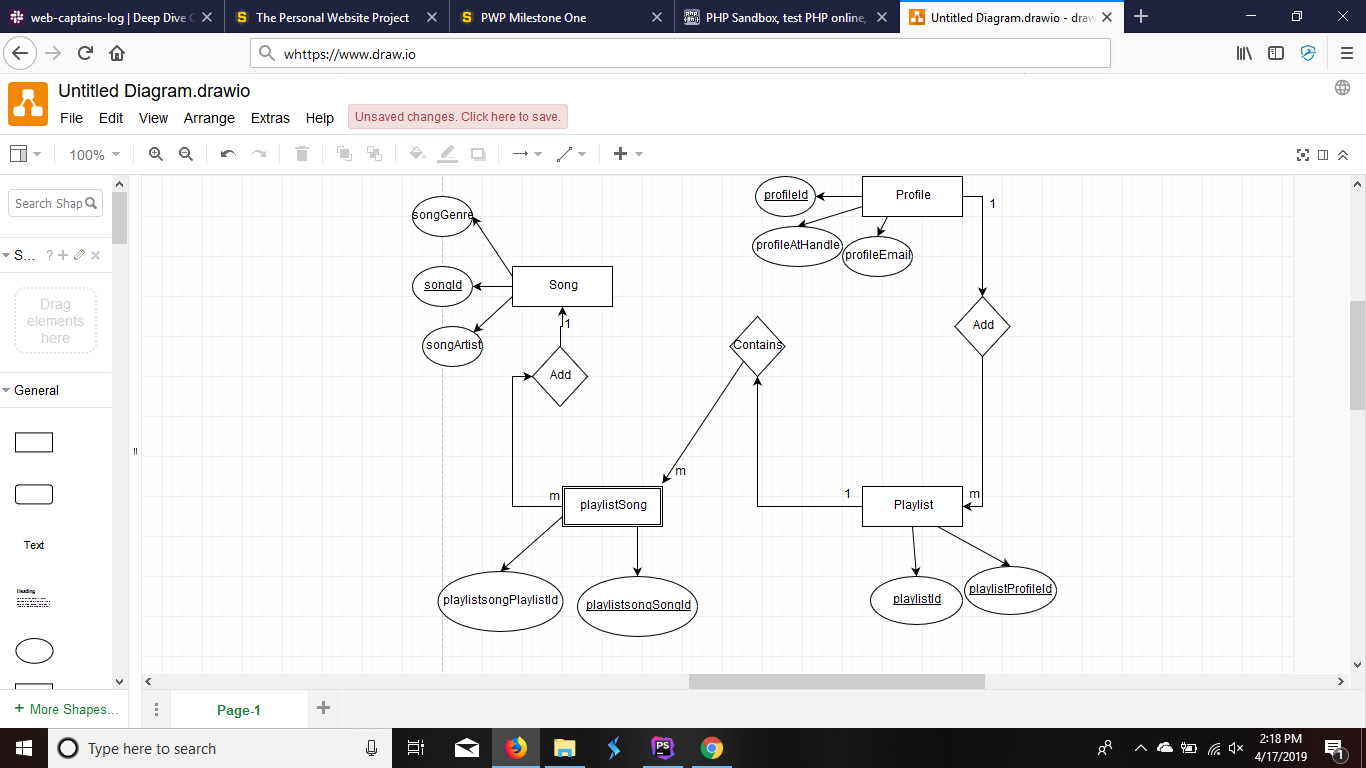
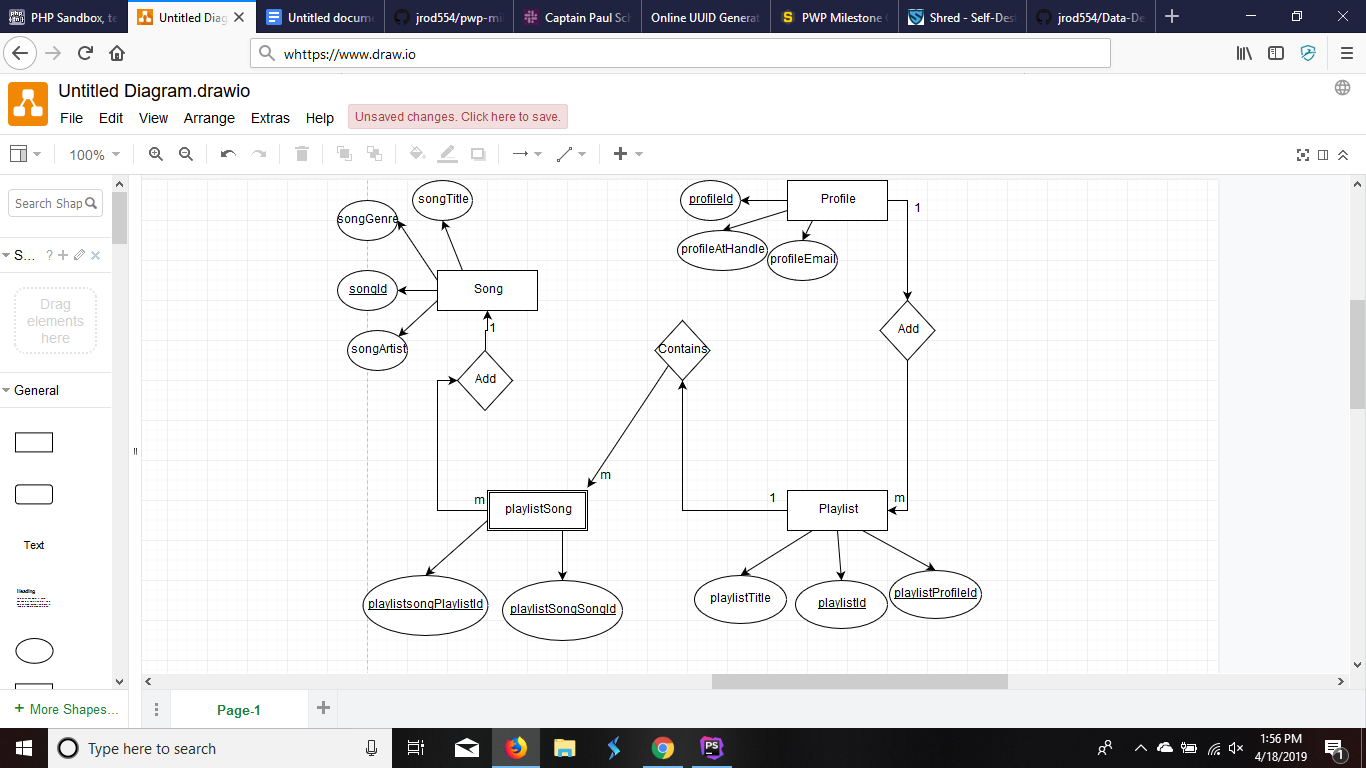
fixed up my erd, conceptual model, and ddl.

diff --git a/epic/index.php b/epic/index.php
@@ -1,5 +1,5 @@
 <!DOCTYPE html>
-<a lang ="en">
+<html lang="en">
 <head>
 	<meta charset="UTF-8">
 	<title>Data Design Project</title>
@@ -9,11 +9,11 @@
 </body>
 	<a href="persona.php">Persona</a>
 	<br>
-	<a href="User%20Story.php">User Story</a>
+	<a href="user-story.php">User Story</a>
 	<br>
 	<a href="interaction-flow.php">Interaction Flow</a>
 	<br>
-	<a href="erd.png">ERD</a>
+<a href="erd.png">ERD</a>
 	<br>
 	<a href="conceptual-model.php">Conceptual Model</a>
 	<br>

diff --git a/epic/conceptual-model.php b/epic/conceptual-model.php
@@ -19,13 +19,14 @@
 		<ul>
 			<li>playlistId</li>
 			<li>playlistProfileId</li>
+			<li>playlistTitle</li>
 		</ul>
 		</div>
 		<div>
 			<p><b>playlistSong</b></p>
 		<ul>
-			<li>playlistsongSongId</li>
-			<li>playlistsongPlaylistId</li>
+			<li>playlistSongSongId</li>
+			<li>playlistSongPlaylistId</li>
 		</ul>
 		</div>
 		<div>
@@ -34,6 +35,7 @@
 			<li>songGenre</li>
 			<li>songId</li>
 			<li>songArtist</li>
+			<li>songTitle</li>
 		</ul>
 		</div>
 	</body>
